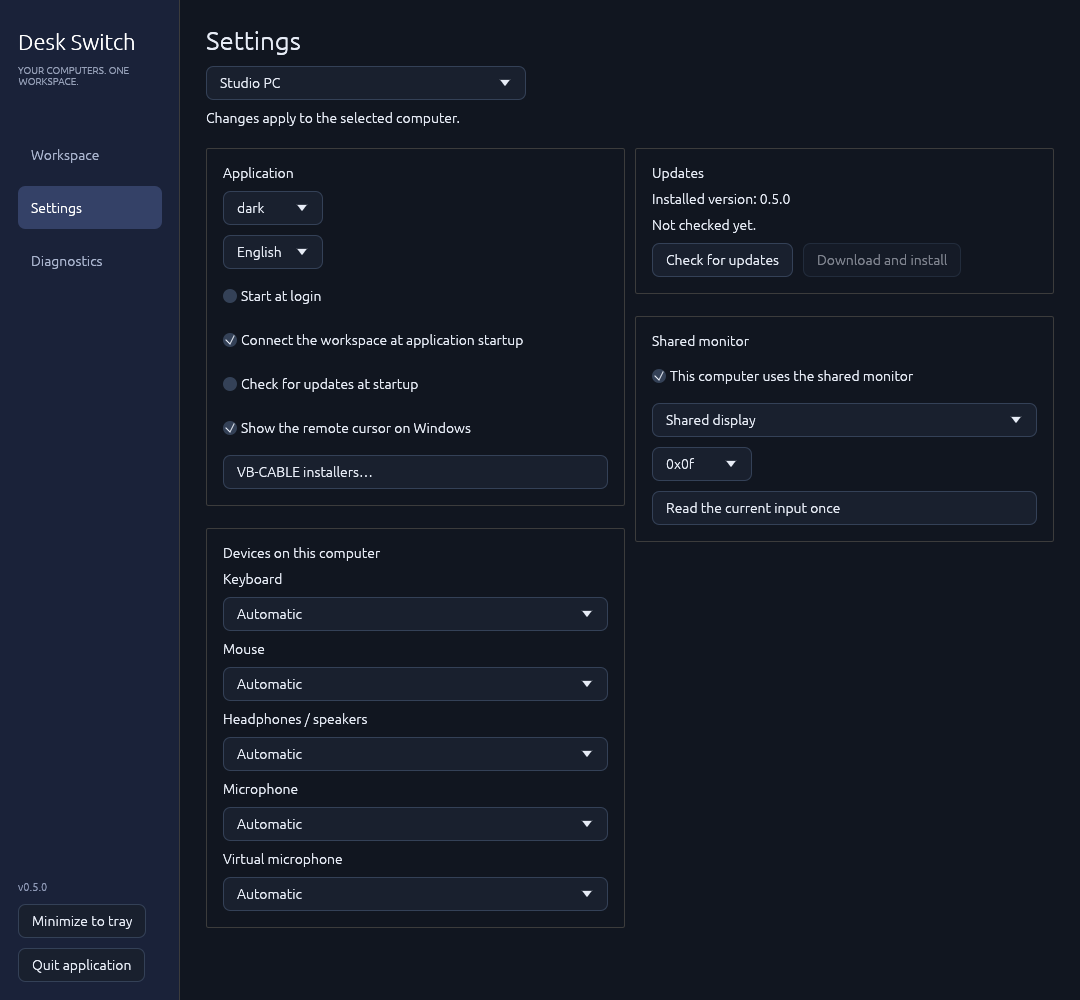
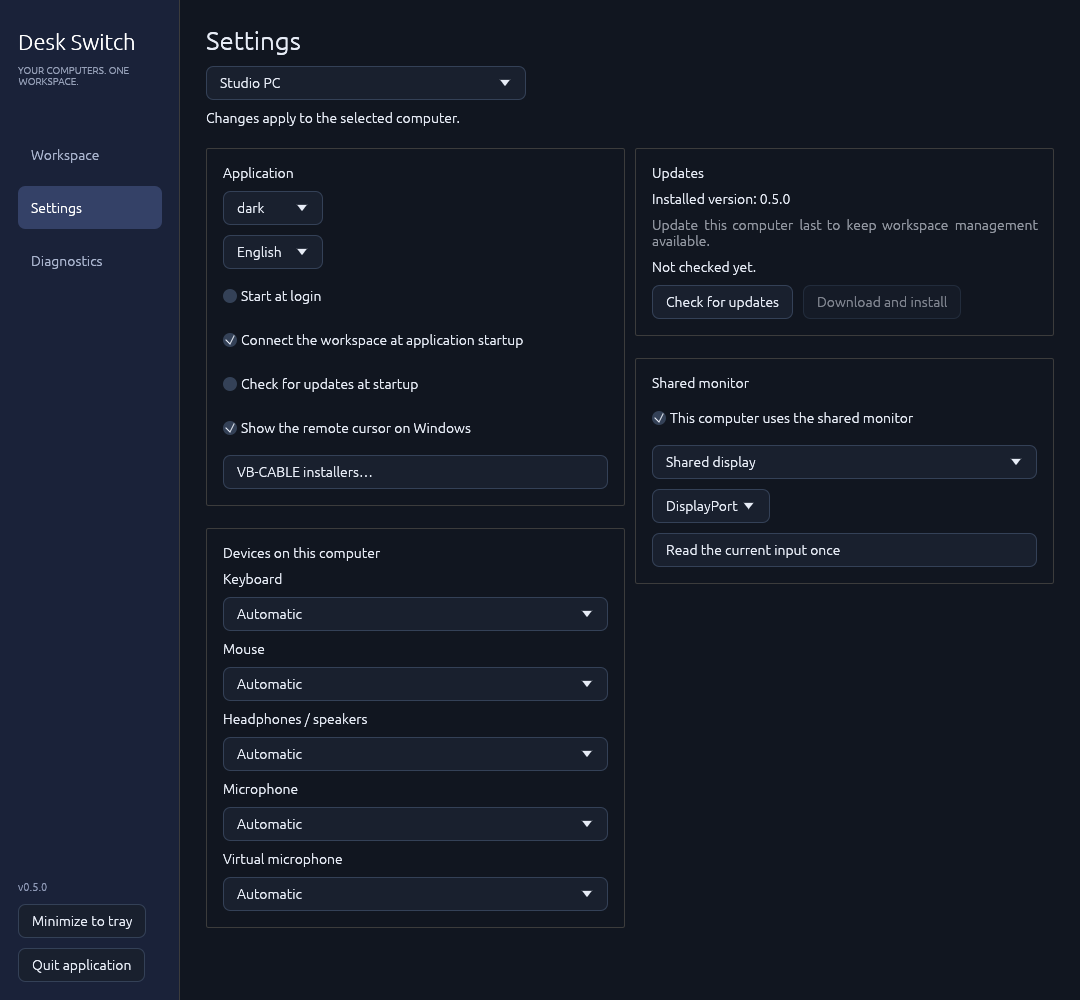
Release Desk Switch 0.5.0 with multi-computer sharing

Changed region(s): [[0.5806, 0.217, 0.9472, 0.558], [0.9167, 0.434, 0.9472, 0.465]]

diff --git a/src/gui/popup.rs b/src/gui/popup.rs
@@ -360,7 +360,17 @@ impl Desktop {
                 .filter(|member| member.online)
                 .count()
                 > 1;
-            snapshot.can_switch = snapshot.connected && !workspace.switch_pending();
+            snapshot.can_switch = workspace
+                .members
+                .values()
+                .filter(|member| member.compatible())
+                .count()
+                > 1
+                && !workspace.switch_pending();
+            snapshot.audio = workspace.settings.audio_enabled;
+            snapshot.keyboard = workspace.settings.keyboard_enabled;
+            snapshot.mouse = workspace.settings.mouse_enabled;
+            snapshot.microphone = workspace.settings.microphone_enabled;
             snapshot.monitor = false;
             snapshot.peer = format!(
                 "{} {}",
@@ -590,6 +600,10 @@ fn content(ui: &mut egui::Ui, snapshot: &Snapshot, mut send: impl FnMut(Action))
                         let mut value = value;
                         if ui
                             .add_enabled(enabled, egui::Checkbox::new(&mut value, tr(label)))
+                            .on_disabled_hover_text(format!(
+                                "{} (F11)",
+                                tr("Return control before changing shared input devices.")
+                            ))
                             .changed()
                         {
                             send(Action::Quick(Command::Toggle(device, value)));
@@ -618,22 +632,27 @@ fn content(ui: &mut egui::Ui, snapshot: &Snapshot, mut send: impl FnMut(Action))
                     for row in &snapshot.levels {
                         ui.horizontal(|ui| {
                             ui.add_sized(
-                                [144.0, 18.0],
+                                [120.0, 18.0],
                                 egui::Label::new(RichText::new(&row.name).strong()).truncate(),
                             )
                             .on_hover_text(&row.name);
                             ui.with_layout(
                                 egui::Layout::right_to_left(egui::Align::Center),
                                 |ui| {
-                                    ui.label(
-                                        RichText::new(tr(if row.system {
-                                            "System volume"
-                                        } else {
-                                            "Relative volume"
-                                        }))
-                                        .small()
-                                        .color(ui.visuals().weak_text_color()),
-                                    );
+                                    let caption = tr(if row.system {
+                                        "System volume"
+                                    } else {
+                                        "Relative volume"
+                                    });
+                                    ui.add(
+                                        egui::Label::new(
+                                            RichText::new(&caption)
+                                                .small()
+                                                .color(ui.visuals().weak_text_color()),
+                                        )
+                                        .truncate(),
+                                    )
+                                    .on_hover_text(caption);
                                 },
                             );
                         });
@@ -641,7 +660,23 @@ fn content(ui: &mut egui::Ui, snapshot: &Snapshot, mut send: impl FnMut(Action))
                         let changed = ui
                             .horizontal(|ui| {
                                 let slider = ui
-                                    .add(egui::Slider::new(&mut level.volume, 0..=100).suffix(" %"))
+                                    .scope(|ui| {
+                                        let font = egui::TextStyle::Body.resolve(ui.style());
+                                        let mute_width = ui.fonts_mut(|fonts| {
+                                            fonts
+                                                .layout_no_wrap(tr("Mute"), font, Color32::WHITE)
+                                                .size()
+                                                .x
+                                        });
+                                        ui.spacing_mut().slider_width =
+                                            (ui.available_width() - mute_width - 106.0)
+                                                .clamp(96.0, 175.0);
+                                        ui.add(
+                                            egui::Slider::new(&mut level.volume, 0..=100)
+                                                .suffix(" %"),
+                                        )
+                                    })
+                                    .inner
                                     .changed();
                                 ui.checkbox(&mut level.muted, tr("Mute")).changed() || slider
                             })

diff --git a/src/gui/group.rs b/src/gui/group.rs
@@ -658,6 +658,9 @@ impl Desktop {
                                         })
                                     ));
                                     let mut roles = Vec::new();
+                                    if key == &state.hub {
+                                        roles.push(tr("Workspace coordinator"));
+                                    }
                                     if plan.input.as_ref() == Some(key) {
                                         roles.push(tr("Keyboard & mouse"));
                                     }
@@ -998,11 +1001,49 @@ impl Desktop {
                         .map(|version| version.app.as_str())
                         .unwrap_or("—")
                 ));
-                ui.label(tr(&management.update.status));
-                ui.horizontal(|ui| {
+                if self
+                    .group
+                    .workspace
+                    .as_ref()
+                    .is_some_and(|state| state.hub == member.node.key)
+                {
+                    ui.weak(tr(
+                        "Update this computer last to keep workspace management available.",
+                    ));
+                }
+                if management.update.failed {
+                    ui.colored_label(ui.visuals().error_fg_color, tr(&management.update.status));
+                } else {
+                    ui.label(tr(&management.update.status));
+                }
+                if let Some(progress) = &management.update.progress {
+                    ui.add(
+                        egui::ProgressBar::new(
+                            progress.downloaded as f32 / progress.total.max(1) as f32,
+                        )
+                        .show_percentage(),
+                    );
+                }
+                if self.group.update_target.as_ref() == Some(&member.node.key)
+                    && let Some((status, failed)) = &self.peer_update_status
+                {
+                    ui.colored_label(
+                        if *failed {
+                            ui.visuals().error_fg_color
+                        } else {
+                            ui.visuals().text_color()
+                        },
+                        tr(status),
+                    );
+                }
+                if !member.online {
+                    ui.weak(tr("Offline"));
+                }
+                ui.horizontal_wrapped(|ui| {
                     if ui
                         .add_enabled(
-                            !self.update_action_busy()
+                            member.online
+                                && !self.update_action_busy()
                                 && !management.update.checking
                                 && !management.update.installing,
                             egui::Button::new(tr("Check for updates")),
@@ -1022,7 +1063,9 @@ impl Desktop {
                     }
                     if ui
                         .add_enabled(
-                            management.update.can_install() && !self.update_action_busy(),
+                            member.online
+                                && management.update.can_install()
+                                && !self.update_action_busy(),
                             egui::Button::new(tr("Download and install")),
                         )
                         .clicked()
@@ -1142,7 +1185,14 @@ impl Desktop {
                     .selected_text(
                         monitor
                             .input
-                            .map(|input| format!("0x{input:02x}"))
+                            .map(|input| match input {
+                                15 => "DisplayPort".into(),
+                                16 => "DisplayPort 2".into(),
+                                17 => "HDMI 1".into(),
+                                18 => "HDMI 2".into(),
+                                3 => "DVI 1".into(),
+                                other => format!("0x{other:02x}"),
+                            })
                             .unwrap_or_else(|| tr("Choose this computer's port")),
                     )
                     .show_ui(ui, |ui| {

diff --git a/src/gui/preview.rs b/src/gui/preview.rs
@@ -178,14 +178,14 @@ pub fn run(case: &str, dir: PathBuf) -> Result<()> {
         viewport: egui::ViewportBuilder::default()
             .with_title("Desk Switch")
             .with_active(false)
-            .with_inner_size(if case == "quick-controls" {
+            .with_inner_size(if case.ends_with("quick-controls") {
                 [344.0, 442.0]
             } else if capturing || std::env::var_os("EFRAME_SCREENSHOT_TO").is_some() {
                 [1080.0, 1000.0]
             } else {
                 [1080.0, 760.0]
             })
-            .with_min_inner_size(if case == "quick-controls" {
+            .with_min_inner_size(if case.ends_with("quick-controls") {
                 [344.0, 442.0]
             } else {
                 [880.0, 650.0]
@@ -322,8 +322,8 @@ impl Desktop {
         if let Some(tray) = &self.tray {
             tray.preview_label();
         }
-        self.preview_popup = case == "quick-controls";
-        let case = if self.preview_popup {
+        self.preview_popup = case.ends_with("quick-controls");
+        let case = if case == "quick-controls" {
             "shared-audio"
         } else {
             case
@@ -647,7 +647,10 @@ impl Desktop {
                     });
             }
         }
-        if matches!(case, "shared-four" | "shared-four-settings") {
+        if matches!(
+            case,
+            "shared-four" | "shared-four-settings" | "shared-four-quick-controls"
+        ) {
             let mut members = std::collections::BTreeMap::new();
             for (index, (name, platform, key)) in [
                 ("Studio PC", "windows", self.public_key.clone()),

diff --git a/src/main.rs b/src/main.rs
@@ -17,6 +17,7 @@ mod gui;
 mod i18n;
 #[cfg(any(windows, test))]
 mod keys;
+mod licenses;
 mod lifecycle;
 #[cfg(target_os = "macos")]
 mod macos_native;
@@ -30,6 +31,7 @@ mod workspace;
 
 const USAGE: &str = "Desk Switch\n\
     gui [--tray]         Open the desktop window, optionally in the system tray\n\
+    --licenses           Print the bundled open-source license notices\n\
     init                 Create this computer's identity and print its public key\n\
     public-key           Print the existing public key\n\
     pair PUBLIC_KEY      Pin the other computer's public key\n\
@@ -81,6 +83,7 @@ fn run() -> Result<()> {
             gui::run_preview(case, std::path::PathBuf::from(path))?
         }
         ["help" | "--help" | "-h"] => println!("{USAGE}"),
+        ["--licenses" | "licenses"] => print!("{}", licenses::NOTICES),
         ["--build-info"] => println!("{}", compatibility::BUILD_INFO),
         #[cfg(target_os = "macos")]
         ["macos-export-helper", name, destination] => {

diff --git a/src/licenses.rs b/src/licenses.rs
@@ -1,0 +1,13 @@
+//! License texts embedded in standalone releases and exposed by `--licenses`.
+
+pub const NOTICES: &str = concat!(
+    "Desk Switch\nhttps://github.com/siarheisinelnikau/desk-switch\n\n",
+    include_str!("../LICENSE"),
+    "\n\negui_software_backend 0.0.2 — DGriffin91 and contributors\n",
+    "https://github.com/DGriffin91/egui_software_backend\n",
+    "The Windows CPU renderer is distributed under the MIT option of its MIT OR Apache-2.0 license.\n\n",
+    include_str!("../vendor/egui_software_backend/LICENSE-MIT"),
+    "\n\nm1ddc — waydabber\nhttps://github.com/waydabber/m1ddc\n",
+    "Included in the macOS Apple Silicon DDC transport.\n\n",
+    include_str!("../vendor/m1ddc/LICENSE"),
+);

diff --git a/tools/package_macos.py b/tools/package_macos.py
@@ -72,6 +72,8 @@ def main():
             "NSHighResolutionCapable": True,
             "NSMicrophoneUsageDescription": "Share the selected microphone with computers you paired in Desk Switch.",
             "NSAudioCaptureUsageDescription": "Share system audio with computers you paired in Desk Switch.",
+            "NSLocalNetworkUsageDescription": "Find your computers and securely share input, audio, clipboard and settings on your local network.",
+            "NSBonjourServices": ["_desk-switch._tcp"],
             "NSHumanReadableCopyright": "Copyright Desk Switch contributors. MIT license.",
         }
         (contents / "Info.plist").write_bytes(plistlib.dumps(info, fmt=plistlib.FMT_XML, sort_keys=True))

diff --git a/README.md b/README.md
@@ -35,7 +35,7 @@ The Mac adapter uses native OS APIs:
 - **Monitor:** explicit reads and one VCP `0x60` input-selection transaction on a supported external DDC/CI connection. Intel uses IOI2C; Apple Silicon includes the MIT-licensed [m1ddc transport](vendor/m1ddc/README.md), which uses private macOS APIs. The built-in display cannot switch video inputs, and some USB-C/Thunderbolt adapters, GPUs and monitors expose no supported transport. Unsupported access produces an error; the application never probes alternate input codes or repeats a selection automatically.
 - **Desktop integration:** a menu-bar icon provides the shared quick-controls popup on left click and the native menu on right click. Closing the window keeps the app in the menu bar. Optional login startup uses the current user's LaunchAgent. Text/image clipboard sharing uses the system pasteboard when enabled for the group.
 
-Permissions are granted through macOS itself and cannot be bypassed. macOS may request consent again after an update; stable permission retention with ad-hoc signed builds has not been verified. Settings and identities live in **~/Library/Application Support/desk-switch** unless a custom profile directory is supplied. A real Mac screenshot and settled/hidden performance measurements are still needed; the README screenshots below were generated by the Windows application.
+Permissions are granted through macOS itself and cannot be bypassed. On macOS 15 or newer, allow **Local Network** access for discovery and connections; it can be changed in **System Settings → Privacy & Security → Local Network**. See [Apple's local network privacy guidance](https://developer.apple.com/documentation/technotes/tn3179-understanding-local-network-privacy). macOS may request consent again after an update; stable permission retention with ad-hoc signed builds has not been verified. Settings and identities live in **~/Library/Application Support/desk-switch** unless a custom profile directory is supplied. A real Mac screenshot and settled/hidden performance measurements are still needed; the README screenshots below were generated by the Windows application.
 
 ## Link your computers
 
@@ -109,7 +109,7 @@ DDC/CI depends on the monitor and firmware. Some LG monitors can show a recurrin
 
 **Quit application** releases input, stops services and exits; an unresponsive child is terminated after six seconds. If no working tray is available, X exits instead of leaving an inaccessible background process. Losing the tray brings a hidden window back.
 
-![Two-computer quick controls with shared device toggles and system/relative volume](docs/quick-controls.png)
+![Compact quick controls for a four-computer workspace, with a scrollable volume list](docs/workspace-quick-controls.png)
 
 On **Ubuntu GNOME**, enable **Desk Switch Tray** once in GNOME **Extensions** for left-click popup and right-click native-menu behavior. Log out and back in if the newly installed extension is not listed yet. Other desktops need an AppIndicator/StatusNotifier host and may apply their own click policy.
 
@@ -176,7 +176,7 @@ For local preparation with the existing private key, supply all four tested arti
 python3 tools/prepare_release.py --tag vVERSION --windows PATH.exe --deb PATH.deb --macos-arm64 PATH-arm64.zip --macos-x86-64 PATH-x86-64.zip --out dist/signed
 ```
 
-The verified public `update.json` is saved in the `desk-switch-signed-metadata` Actions artifact and embedded in the release notes. The optional manifest-promotion workflow accepts `release/manifests/VERSION.json`, independently verifies its signature and public native artifacts, and preserves the readable release description. Back up signing credentials independently of the repository. The explicit application CLI remains available through `--help`.
+The verified public `update.json` is saved in the `desk-switch-signed-metadata` Actions artifact and embedded in the release notes. The optional manifest-promotion workflow accepts `release/manifests/VERSION.json`, independently verifies its signature and public native artifacts, and preserves the readable release description. Back up signing credentials independently of the repository. The explicit application CLI remains available through `--help`; run `desk-switch --licenses` to print the license notices embedded in every standalone release.
 
 ## Inspiration
 

diff --git a/release/notes/0.5.0.md b/release/notes/0.5.0.md
@@ -48,6 +48,6 @@ The existing Ed25519 updater identity is retained. The release pipeline requires
 
 ### Validation
 
-Local focused checks cover four encrypted loopback members, group settings and routes, metadata-only update checks, explicit target selection, update/restart coordination, native input recovery and the Windows renderer. Clipboard and GNOME companion checks use synthetic data, mocked Shell objects and private D-Bus sessions; they do not access the user's clipboard or physical monitor. Bounded Windows visible/hidden checks provide renderer lifecycle evidence, not a physical multi-computer hardware test. Full native Ubuntu, Windows, Apple Silicon and Intel macOS CI remains required before publication; real multi-computer devices, GNOME routing, audio quality and monitor firmware need target-machine validation.
+Local focused checks cover four encrypted loopback members, group settings and routes, metadata-only update checks, explicit target selection, update/restart coordination, native input recovery and the Windows renderer. Clipboard and GNOME companion checks use synthetic data, mocked Shell objects and private D-Bus sessions; they do not access the user's clipboard or physical monitor. Bounded Windows visible/hidden checks provide renderer lifecycle evidence, not a physical multi-computer hardware test. Native CI passed strict linting, unit tests, optimized builds and package verification on Ubuntu, Windows, Apple Silicon and Intel macOS. The local optimized Windows suite passed 176 tests; both Mac architectures passed 170 tests each. Real multi-computer devices, GNOME routing, audio quality and monitor firmware still need target-machine validation.
 
 [Changes since v0.4.11](https://github.com/siarheisinelnikau/desk-switch/compare/v0.4.11...v0.5.0)
